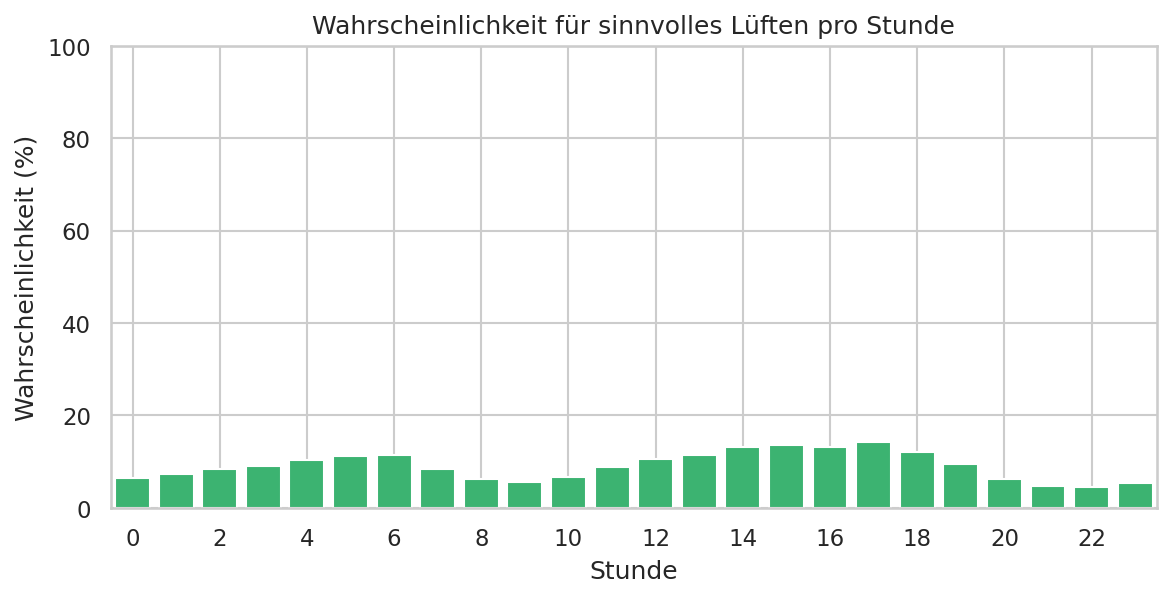
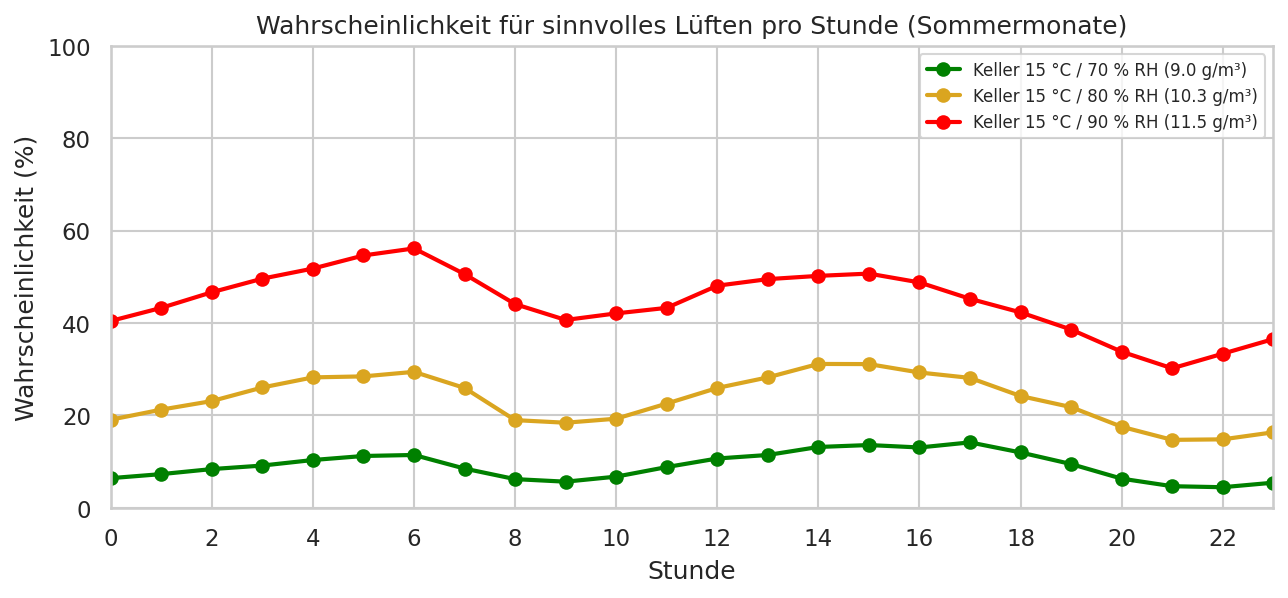
ventilation probability: three cellar RH levels + daily min probability plot (Apr-Sep)

diff --git a/plots.py b/plots.py
@@ -103,15 +103,78 @@ def plot_absolute_humidity_variance(df: pd.DataFrame, filename: str | None = Non
     _save_or_show(fig, filename)
 
 
-def plot_ventilation_probability(hourly: pd.DataFrame, filename: str | None = None):
-    fig, ax = plt.subplots(figsize=(9, 4))
-    bars = ax.bar(hourly.index, hourly["ventilation_prob"] * 100, color="mediumseagreen", edgecolor="white")
+def plot_ventilation_probability(df: pd.DataFrame, filename: str | None = None):
+    """Lüftungswahrscheinlichkeit pro Stunde für drei Keller-RH-Stufen (überlagerte Linien)."""
+    cellar_rh_levels = [70, 80, 90]
+    colors = ["green", "goldenrod", "red"]
+
+    fig, ax = plt.subplots(figsize=(10, 4))
+    for rh, color in zip(cellar_rh_levels, colors):
+        cellar_ah = absolute_humidity(config.CELLAR_TEMP, rh)
+        prob = (df.assign(vp=df["ah_outside"] < cellar_ah)
+                  .groupby("hour")["vp"].mean() * 100)
+        ax.plot(prob.index, prob.values, marker="o", linewidth=2, color=color,
+                label=f"Keller {config.CELLAR_TEMP} °C / {rh} % RH ({cellar_ah:.1f} g/m³)")
+
     ax.set_xlabel("Stunde")
     ax.set_ylabel("Wahrscheinlichkeit (%)")
-    ax.set_title("Wahrscheinlichkeit für sinnvolles Lüften pro Stunde")
+    ax.set_title("Wahrscheinlichkeit für sinnvolles Lüften pro Stunde (Sommermonate)")
     ax.set_ylim(0, 100)
     ax.xaxis.set_major_locator(mticker.MultipleLocator(2))
-    ax.set_xlim(-0.5, 23.5)
+    ax.set_xlim(0, 23)
+    ax.legend(fontsize=8)
+    _save_or_show(fig, filename)
+
+
+def plot_daily_ventilation_probability(raw_df: pd.DataFrame, filename: str | None = None):
+    """Anteil der Jahre, in denen das Tagesminimum der AH die Kellerschwelle unterschreitet.
+
+    X-Achse: Kalendertag Apr–Sep
+    Y-Achse: Wahrscheinlichkeit (%), dass an diesem Tag Lüften möglich wäre
+    Drei Linien für Keller-RH 70 / 80 / 90 %
+    """
+    months = [4, 5, 6, 7, 8, 9]
+    month_labels = {4: "Apr", 5: "Mai", 6: "Jun", 7: "Jul", 8: "Aug", 9: "Sep"}
+    cellar_rh_levels = [70, 80, 90]
+    colors = ["green", "goldenrod", "red"]
+    ref_year = 2001
+
+    df = raw_df.copy()
+    df["month"] = df["timestamp"].dt.month
+    df["day"] = df["timestamp"].dt.day
+    df["year"] = df["timestamp"].dt.year
+    df = df[df["month"].isin(months)].copy()
+    df["ah"] = absolute_humidity(df["temperature"], df["relative_humidity"])
+    daily_min = df.groupby(["year", "month", "day"])["ah"].min().reset_index()
+
+    fig, ax = plt.subplots(figsize=(13, 5))
+
+    for rh, color in zip(cellar_rh_levels, colors):
+        cellar_ah = absolute_humidity(config.CELLAR_TEMP, rh)
+        daily_min["possible"] = daily_min["ah"] < cellar_ah
+        prob = daily_min.groupby(["month", "day"])["possible"].mean().reset_index()
+        prob["date"] = pd.to_datetime(
+            prob[["day", "month"]].assign(year=ref_year)[["year", "month", "day"]]
+        )
+        prob = prob.sort_values("date")
+        ax.plot(prob["date"], prob["possible"] * 100, linewidth=2, color=color,
+                label=f"Keller {config.CELLAR_TEMP} °C / {rh} % RH ({cellar_ah:.1f} g/m³)")
+
+    for month in months:
+        boundary = pd.Timestamp(year=ref_year, month=month, day=1)
+        ax.axvline(boundary, color="gray", linewidth=0.7, linestyle=":")
+        ax.text(boundary, 102, month_labels[month], fontsize=8, color="gray", ha="left", va="bottom")
+
+    ax.xaxis.set_major_locator(mdates.MonthLocator())
+    ax.xaxis.set_major_formatter(mdates.DateFormatter("%b"))
+    ax.set_xlabel("Kalendertag")
+    ax.set_ylabel("Wahrscheinlichkeit (%)")
+    ax.set_title(f"Wahrscheinlichkeit Lüften möglich (Tagesminimum AH < Keller-AH) – Apr–Sep "
+                 f"({raw_df['timestamp'].dt.year.min()}–{raw_df['timestamp'].dt.year.max()})")
+    ax.set_ylim(0, 110)
+    ax.legend(fontsize=8)
+    ax.set_xlim(pd.Timestamp(year=ref_year, month=4, day=1),
+                pd.Timestamp(year=ref_year, month=9, day=30))
     _save_or_show(fig, filename)
 
 

diff --git a/main.py b/main.py
@@ -55,11 +55,12 @@ def main():
     plots.plot_temperature(hourly, f"{OUTPUT_DIR}/01_temperatur_tagesgang.png")
     plots.plot_relative_humidity(hourly, f"{OUTPUT_DIR}/02_relative_feuchte_tagesgang.png")
     plots.plot_absolute_humidity(hourly, f"{OUTPUT_DIR}/03_absolute_feuchte_tagesgang.png")
-    plots.plot_ventilation_probability(hourly, f"{OUTPUT_DIR}/04_lueftungswahrscheinlichkeit.png")
+    plots.plot_ventilation_probability(df, f"{OUTPUT_DIR}/04_lueftungswahrscheinlichkeit.png")
     plots.plot_heatmap(df, f"{OUTPUT_DIR}/05_heatmap_stunde_monat.png")
     plots.plot_absolute_humidity_variance(df, f"{OUTPUT_DIR}/06_absolute_feuchte_varianz.png")
     plots.plot_daily_absolute_humidity(raw_df, f"{OUTPUT_DIR}/07_absolute_feuchte_tagesverlauf_apr_sep.png")
     plots.plot_daily_min_absolute_humidity(raw_df, f"{OUTPUT_DIR}/08_tagesminimum_absolute_feuchte_apr_sep.png")
+    plots.plot_daily_ventilation_probability(raw_df, f"{OUTPUT_DIR}/09_lueftungswahrscheinlichkeit_apr_sep.png")
 
     print(f"\nFertig. Diagramme in '{OUTPUT_DIR}/'.")
 
